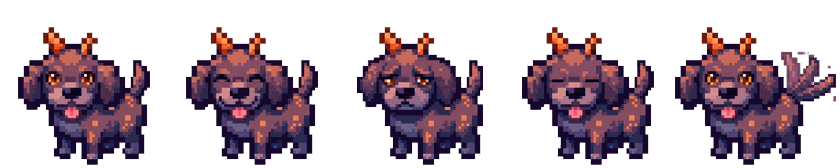
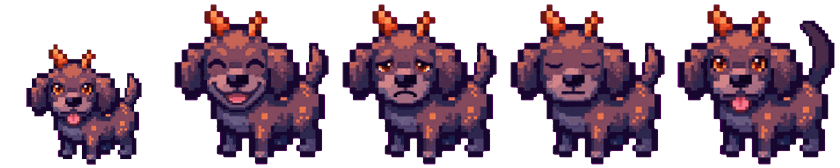
Doom & Doilies: regenerate every pet frame as its own render
The pet sheets let neighbouring cells bleed into each other, so frames came out
clipped or smeared (the cat missing a foot and tail, the bat's wing chopped, a
floating bunny ear, a clipped toad). Generate a clean idle frame per pet from the
painted pet, then each other frame (happy, sad, blink, the bat's flap, the dog's
wag) from that idle frame, one picture each.

- export_sprites.py reads pet-<id>-<frame>.png; the bat's cells are wider so raised
  wings fit; per-pet accessory geometry for the cat, toad and owl
- assets.js: xpad shifts accessories on a wider cell
- the happy frames are real again for every pet; the dog wags
- dev/assets/README.md explains the sheet problem and the fix

Claude-Session: https://claude.ai/code/session_01Scowix6qxk9q4be2ynqPbR

diff --git a/game-110/js/view/assets.js b/game-110/js/view/assets.js
@@ -38,7 +38,7 @@ export async function loadAssets(base = 'assets/', limitMs = 12000) {
             if (!im || !im.naturalWidth) return;
             const c = document.createElement('canvas'); c.width = im.naturalWidth; c.height = im.naturalHeight;
             c.getContext('2d').drawImage(im, 0, 0);
-            found.set(key, { canvas: c, w: e.w ?? im.naturalWidth, h: e.h ?? im.naturalHeight, cols: e.cols || 1, rows: e.rows || 1, map: e.map || null, geom: e.geom || null, rep: e.rep || 1 });
+            found.set(key, { canvas: c, w: e.w ?? im.naturalWidth, h: e.h ?? im.naturalHeight, cols: e.cols || 1, rows: e.rows || 1, map: e.map || null, geom: e.geom || null, xpad: e.xpad || 0, rep: e.rep || 1 });
         }));
     })();
     await Promise.race([work, timeout(limitMs)]);
@@ -120,7 +120,7 @@ export function petAssetPx(id, { mood = 'idle', acc = null, frame = 0 } = {}, fa
     const ac = acc && found.get('acc/' + acc);
     if (ac) {
         const g = a.geom || fallback, k = c.width / a.w;
-        const [cx, cy] = ACC_AT[acc](g);
+        const [cx0, cy] = ACC_AT[acc](g), cx = cx0 + a.xpad;      // xpad: the extra width of a cell wider than the painted pet's
         const w = ac.w * k, h = ac.canvas.height * (w / ac.canvas.width);
         const x = c.getContext('2d');
         x.imageSmoothingQuality = 'high';

diff --git a/game-110/dev/assets/export_sprites.py b/game-110/dev/assets/export_sprites.py
@@ -16,7 +16,7 @@ figure is placed bottom-centre in a box of that aspect ratio at S times the size
 import json, os, sys
 from PIL import Image
 sys.path.insert(0, os.path.dirname(os.path.abspath(__file__)))
-from cutout import key_background, main_figure, crop_to_alpha, split_columns, fit
+from cutout import key_background, main_figure, crop_to_alpha, split_columns, split_even, fit
 
 HERE = os.path.dirname(os.path.abspath(__file__))
 ASSETS = os.path.normpath(os.path.join(HERE, '..', '..', 'assets'))
@@ -33,12 +33,13 @@ STATION = (48, 48)
 TOKENS = ['skull', 'cupcake', 'yarn', 'candle', 'rose', 'teacup', 'pumpkin']
 PETS = {'cat': (26, 28, 4), 'dog': (28, 28, 5), 'bat': (30, 26, 5), 'bunny': (24, 30, 4), 'toad': (26, 26, 4), 'owl': (22, 30, 4)}
 # accessories: file name -> logical width on a pet (the game places them by the pet's head and neck)
-# Frames the model drew badly (ghosting, stray hearts, a floating ear) are not used: the game shows another cell instead.
-PET_MAP = {'bat': {'happy': 3}, 'bunny': {'happy': 3}, 'toad': {'happy': 3}, 'owl': {'happy': 3}, 'dog': {'alt': 0}}
+# A frame the model drew badly can be swapped for another cell, e.g. {'bat': {'happy': 3}}; none needs it now.
+PET_MAP = {}
+PET_WIDE = {'bat': 1.5}
 # where accessories sit on the generated pets, in each pet's sprite pixels (head: [x, top of the head]; neck: [x, y, width]);
 # a pet not listed here uses the head and neck of the painted pet (PET_GEOM in js/view/art.js)
-PET_GEOM = {'toad': {'head': [13, 7.5], 'neck': [13, 15, 12]}, 'owl': {'head': [11, 5], 'neck': [11, 15.5, 9]},
-            'bunny': {'head': [12, 10], 'neck': [12, 17.5, 8]}}
+PET_GEOM = {'cat': {'head': [10.5, 4.5], 'neck': [11, 17, 8]}, 'toad': {'head': [13, 5.5], 'neck': [13, 14, 12]},
+            'owl': {'head': [11, 6.5], 'neck': [11, 17.5, 9]}}
 ACC = [('bow', 9), ('bell', 9), ('hat', 13), ('scarf', 12), ('crown', 8)]
 
 
@@ -151,14 +152,25 @@ def main(raw):
         if im is not None:
             save(man, 'icon/' + k, f'tokens/icon-{k}.png', fit(fig(im), 16 * 8, 16 * 8, fill=0.94, align='centre'), w=16, h=16)
 
-    # pets: one scale per sheet; each frame is centred on its own figure
+    # pets: each frame is its own render (a sheet let neighbouring figures bleed into each other and clipped them), keyed and
+    # placed on one common scale; the bat's cells are wider so its raised wings fit
     for pid, (w, h, n) in PETS.items():
-        im = load(raw, 'pet-' + pid)
-        if im is None:
+        frames = ['idle', 'happy', 'sad', 'blink'] + (['alt'] if n == 5 else [])
+        imgs = [load(raw, f'pet-{pid}-{f}') for f in frames]
+        if any(i is None for i in imgs):
             continue
-        cells = [fig(c, 0.25) for c in split_columns(im, n, 24)]     # only the pet itself: no floating ears, notes or smears
-        bw, bh = w * S, h * S
-        save(man, 'pet/' + pid, f'pets/{pid}.png', sheet(cells, bw, bh, common_scale([cells], bw, bh)), w=w, h=h, cols=n, **({'map': PET_MAP[pid]} if pid in PET_MAP else {}), **({'geom': PET_GEOM[pid]} if pid in PET_GEOM else {}))
+        wide = PET_WIDE.get(pid, 1.0)
+        cells = [fig(i, 0.25) for i in imgs]
+        bw, bh = round(w * wide * 2) // 2 * S, h * S
+        sc = min(min(bh * FILL / c.height, bw * FILL / c.width) for c in cells)
+        extra = {}
+        if pid in PET_MAP:
+            extra['map'] = PET_MAP[pid]
+        if pid in PET_GEOM:
+            extra['geom'] = PET_GEOM[pid]
+        if wide != 1.0:
+            extra['xpad'] = (bw // S - w) / 2
+        save(man, 'pet/' + pid, f'pets/{pid}.png', sheet(cells, bw, bh, sc), w=bw // S, h=h, cols=n, **extra)
 
     # accessories: trimmed, with a logical width the game scales them to
     im = load(raw, 'accessories')

diff --git a/game-110/dev/assets/cutout.py b/game-110/dev/assets/cutout.py
@@ -181,6 +181,23 @@ def split_columns(img, n, min_gap=10):
     return [img.crop((a, 0, b, img.height)) for a, b in merged]
 
 
+def split_even(img, n, window=0.2):
+    """Cut a keyed sheet of n equally spaced figures. The model keeps the reference's layout, so the cell boundaries are
+    near i/n of the width; each cut goes at the emptiest column within +-window of a cell, so a smear or a wide wing that
+    reaches toward a neighbour is never what decides where the cut falls (and a figure is never chopped)."""
+    prof = (np.asarray(img)[..., 3] > 40).sum(axis=0)
+    cw = img.width / n
+    cuts = [0]
+    for i in range(1, n):
+        c = int(i * cw)
+        lo, hi = int(c - cw * window), int(c + cw * window)
+        seg = prof[lo:hi]
+        best = np.flatnonzero(seg == seg.min())
+        cuts.append(lo + int(best[len(best) // 2]))
+    cuts.append(img.width)
+    return [img.crop((a, 0, b, img.height)) for a, b in zip(cuts, cuts[1:])]
+
+
 def fit(img, bw, bh, scale=None, fill=0.96, align='bottom'):
     """Place a cropped RGBA figure in a bw x bh box, scaled to fit (or by `scale`), centred, feet on the bottom (or centred)."""
     if scale is None:

diff --git a/game-110/dev/assets/README.md b/game-110/dev/assets/README.md
@@ -17,7 +17,8 @@ invention. Two pictures came from plain text-to-image (`fal-ai/nano-banana-2`): 
 | 12 minions, 4 visitors, the henchman | `.../edit` | the painted sprite, 1:1 | `resolution: 1K` |
 | 4 centrepieces | `.../edit` | the four painted tiers side by side, 4:1 | `2K`; "each a bigger, fancier version" |
 | 7 Skull Swap tokens, scissors and paw icons | `.../edit` | the painted 16x16 token, 1:1 | |
-| 6 pets | `.../edit` | the painted pet in idle, happy, sad and blink (plus a second frame for the dog and the bat), 4:1 | `2K` |
+| 6 pets, idle frame | `.../edit` | the painted pet (a sheet, asking for "only the first figure") | `1K`, 1:1 |
+| 6 pets, other frames | `.../edit` | **the generated idle frame**, "change only the expression" (happy, sad, blink; the bat's wings raised, the dog's tail raised) | `1K`, 1:1, one picture per frame |
 | texture sheet | text to image | none | "3 by 3 grid of nine seamless tileable swatches ... strictly greyscale", 2K |
 | pet accessories | text to image | none | "five small game accessories in a row", 4:1 |
 
@@ -35,8 +36,7 @@ All prompts end with `Plain flat solid magenta (#ff00ff) background, no shadow, 
 - **`export_sprites.py`** sizes each picture to the logical size of the sprite it replaces (6x for sprites, 8x for tokens), so
   the game sizes it exactly as before. The Overlord's cells are 1.7x wider than her painted sprite so her raised arms and her tools
   never set her scale; she, and each centrepiece sheet, share one scale across all their frames. Fully transparent pixels are
-  given the outline's violet so a filtered texture has no magenta halo. A few frames the model drew badly (a ghosted happy face, a floating
-  ear) are not used: `PET_MAP` points the game at another cell, and `PET_GEOM` says where accessories sit on a pet.
+  given the outline's violet so a filtered texture has no magenta halo. `PET_GEOM` says where accessories sit on a pet whose head and neck are not where the painted pet's were, `PET_MAP` can point a mood at another cell, and the bat's cells are wider (`PET_WIDE`) so raised wings fit.
   The Overlord's hair drifted brown in two of the duster frames; `recolour_hair` pulls it back to black-violet.
 - **`export_tiles.py`** trims each swatch, stretches its levels so the median is mid-grey (the palette's base colour), and
   cross-fades the edges so it repeats without a hard seam (not the strictly regular check, marble and carpet, which would only blur).
@@ -47,9 +47,13 @@ All prompts end with `Plain flat solid magenta (#ff00ff) background, no shadow, 
 ## What the model declined or got wrong
 
 The gingerbread golem was declined once under the content policy (gingerbread *golem*, reworded as a gingerbread *cookie
-character* it was fine). The "happy" pet frames were the weak spot: in about half the sheets the model smeared or ghosted the second cell,
-and re-rolling did not reliably fix it, so the bat, bunny, toad and owl show their calm blink frame when happy and the dog never wags (its second
-frame had a ragged tail). The spider seamstress came back with glasses and the loom as a bookshelf with a ghost; both are charming and stayed.
+character* it was fine). **Sheets of several frames in one picture were the weak spot.** Asked for a pet in four expressions side
+by side, the model smeared and ghosted the neighbouring cells into each other: a cat missing a foot and its tail, a bat with a chopped wing, a
+bunny with a floating ear, a toad with a clipped side. Re-rolling did not fix it reliably, and cutting the sheet in different places did not help
+because the damage was in the picture. The fix was to generate every pet frame as its own picture: first a clean idle frame
+from the painted pet, then each other frame from that idle frame with "change only the expression". Frames stay consistent, nothing can bleed, and
+`export_sprites.py` reads `pet-<id>-<frame>.png`. (The Overlord, minions, visitors and centrepieces were not affected: their sheets
+came back clean.) The spider seamstress came back with glasses and the loom as a bookshelf with a ghost; both are charming and stayed.
 
 ## What is still painted in code
 

diff --git a/game-110/game-plan.md b/game-110/game-plan.md
@@ -168,7 +168,7 @@ size of the painted sprite it replaces, so nothing on screen moved.
 | `assets/minions/`, `visitors/`, `henchman.png` | the twelve minions, four visitors, the goblin | castle billboards, the shop icons, the salon's gallery and wishes |
 | `assets/stations/` | the four centrepieces, one cell per mastery tier | `SpriteLib.station` |
 | `assets/tokens/` | the six Skull Swap tokens, the jack-o'-lantern, the scissors and paw | the Skull Swap board and goals (smoothed, not hard pixels); the icons over the graves |
-| `assets/pets/` | six pets: idle, happy, sad, blink (and a flap or wag frame); five accessories | the nursery, the castle pet, the shop; accessories are drawn over the pet at its head and neck |
+| `assets/pets/` | six pets: idle, happy, sad, blink (and a wing flap or tail wag), each frame its own render; five accessories | the nursery, the castle pet, the shop; accessories are drawn over the pet at its head and neck |
 | `assets/tiles/` | nine greyscale swatches: brick, stone, wallpaper, planks, panelling, check, marble, flagstones, carpet | coloured per lair by a gradient map, repeated by their own `rep` scale, filtered and mipmapped |
 
 How it was made, and what the exporters cope with, is in [dev/assets/README.md](dev/assets/README.md). Still painted in code: the
